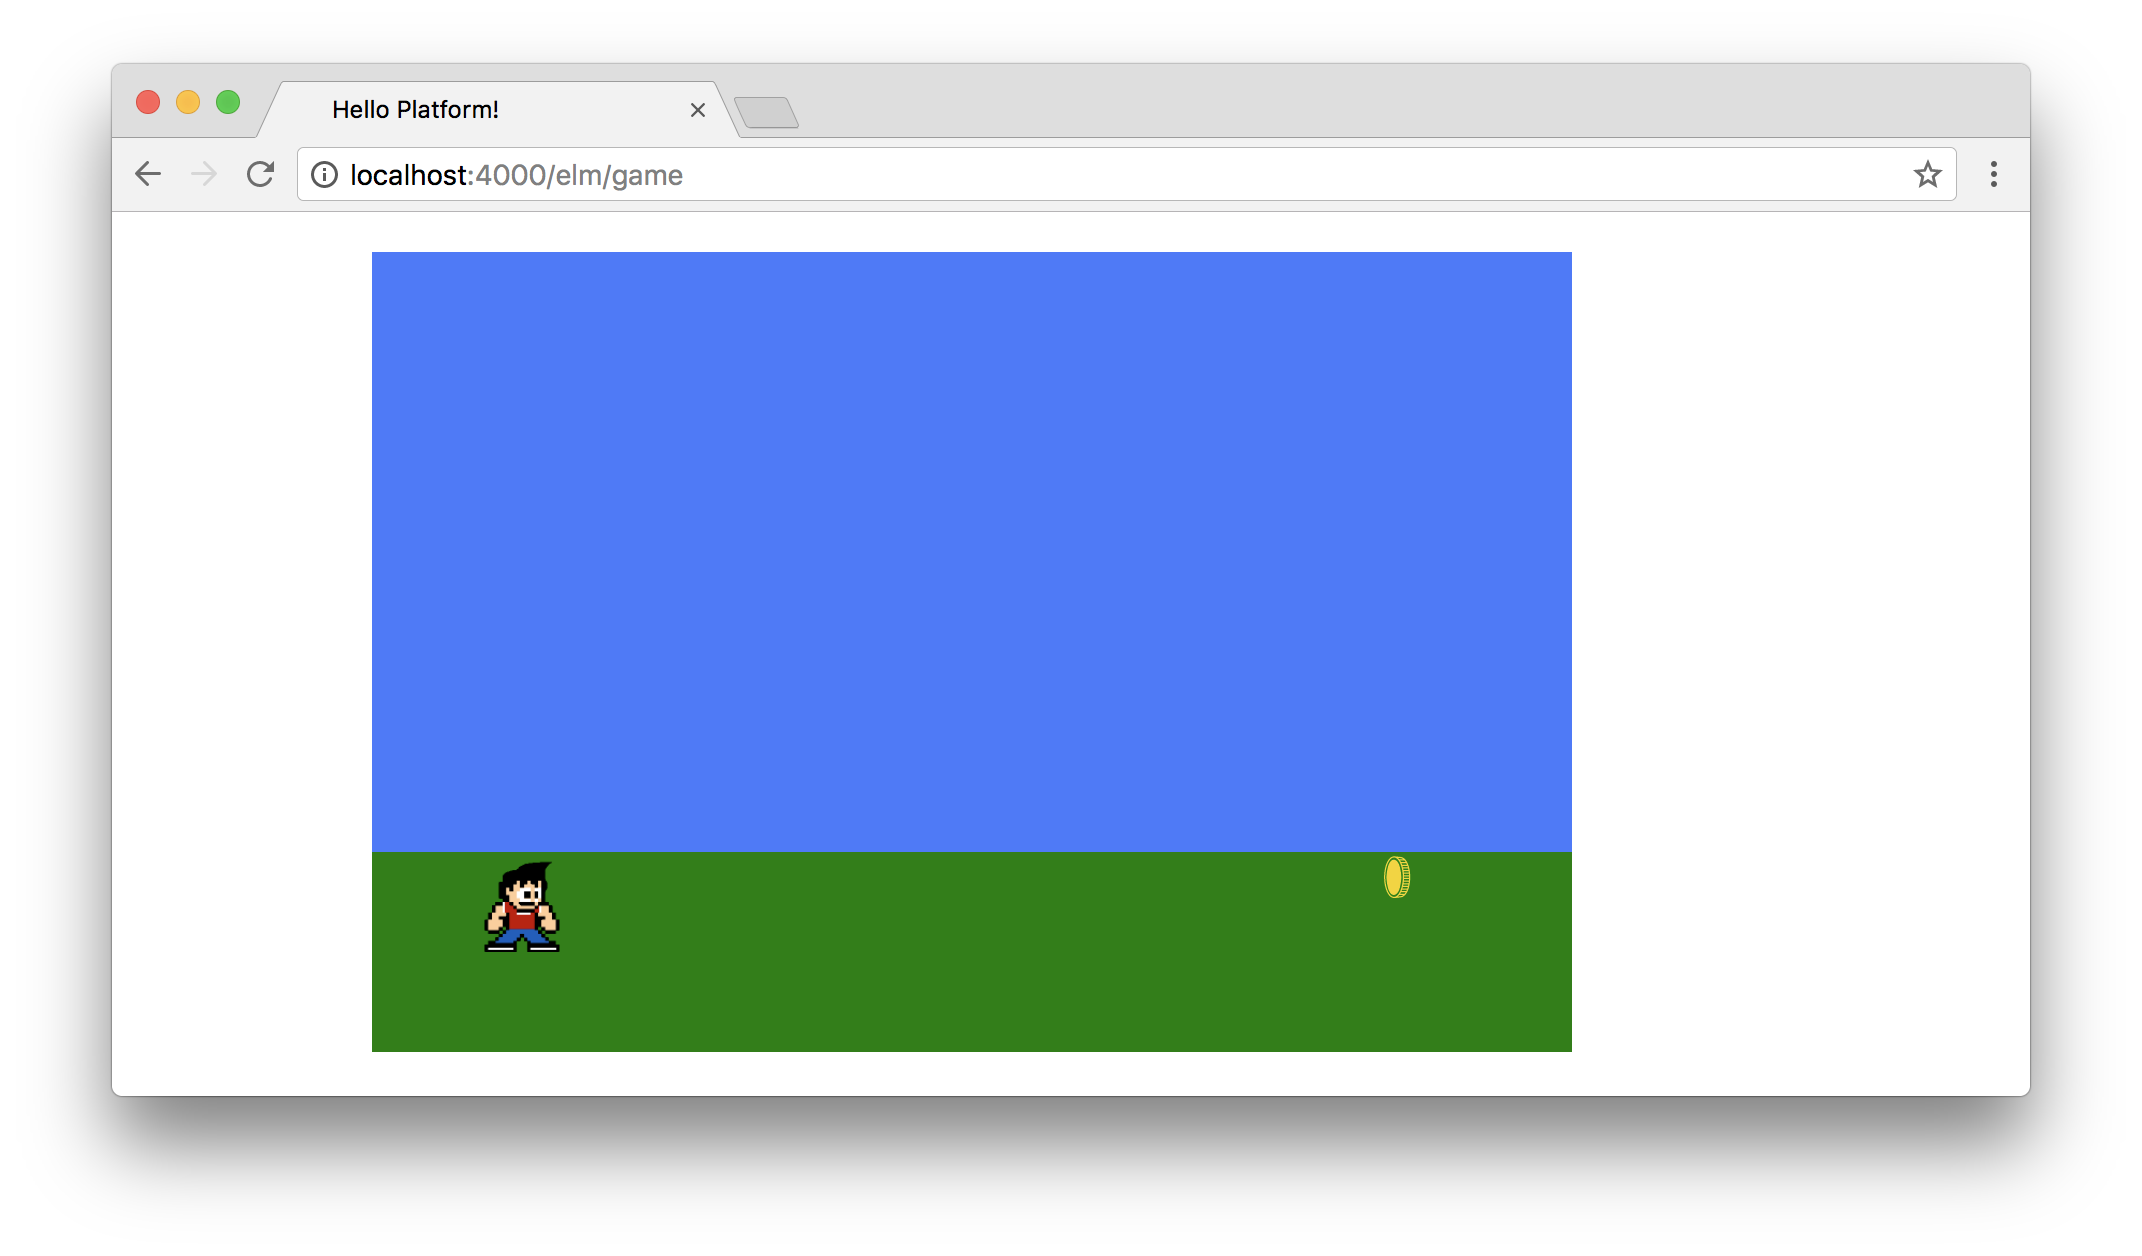
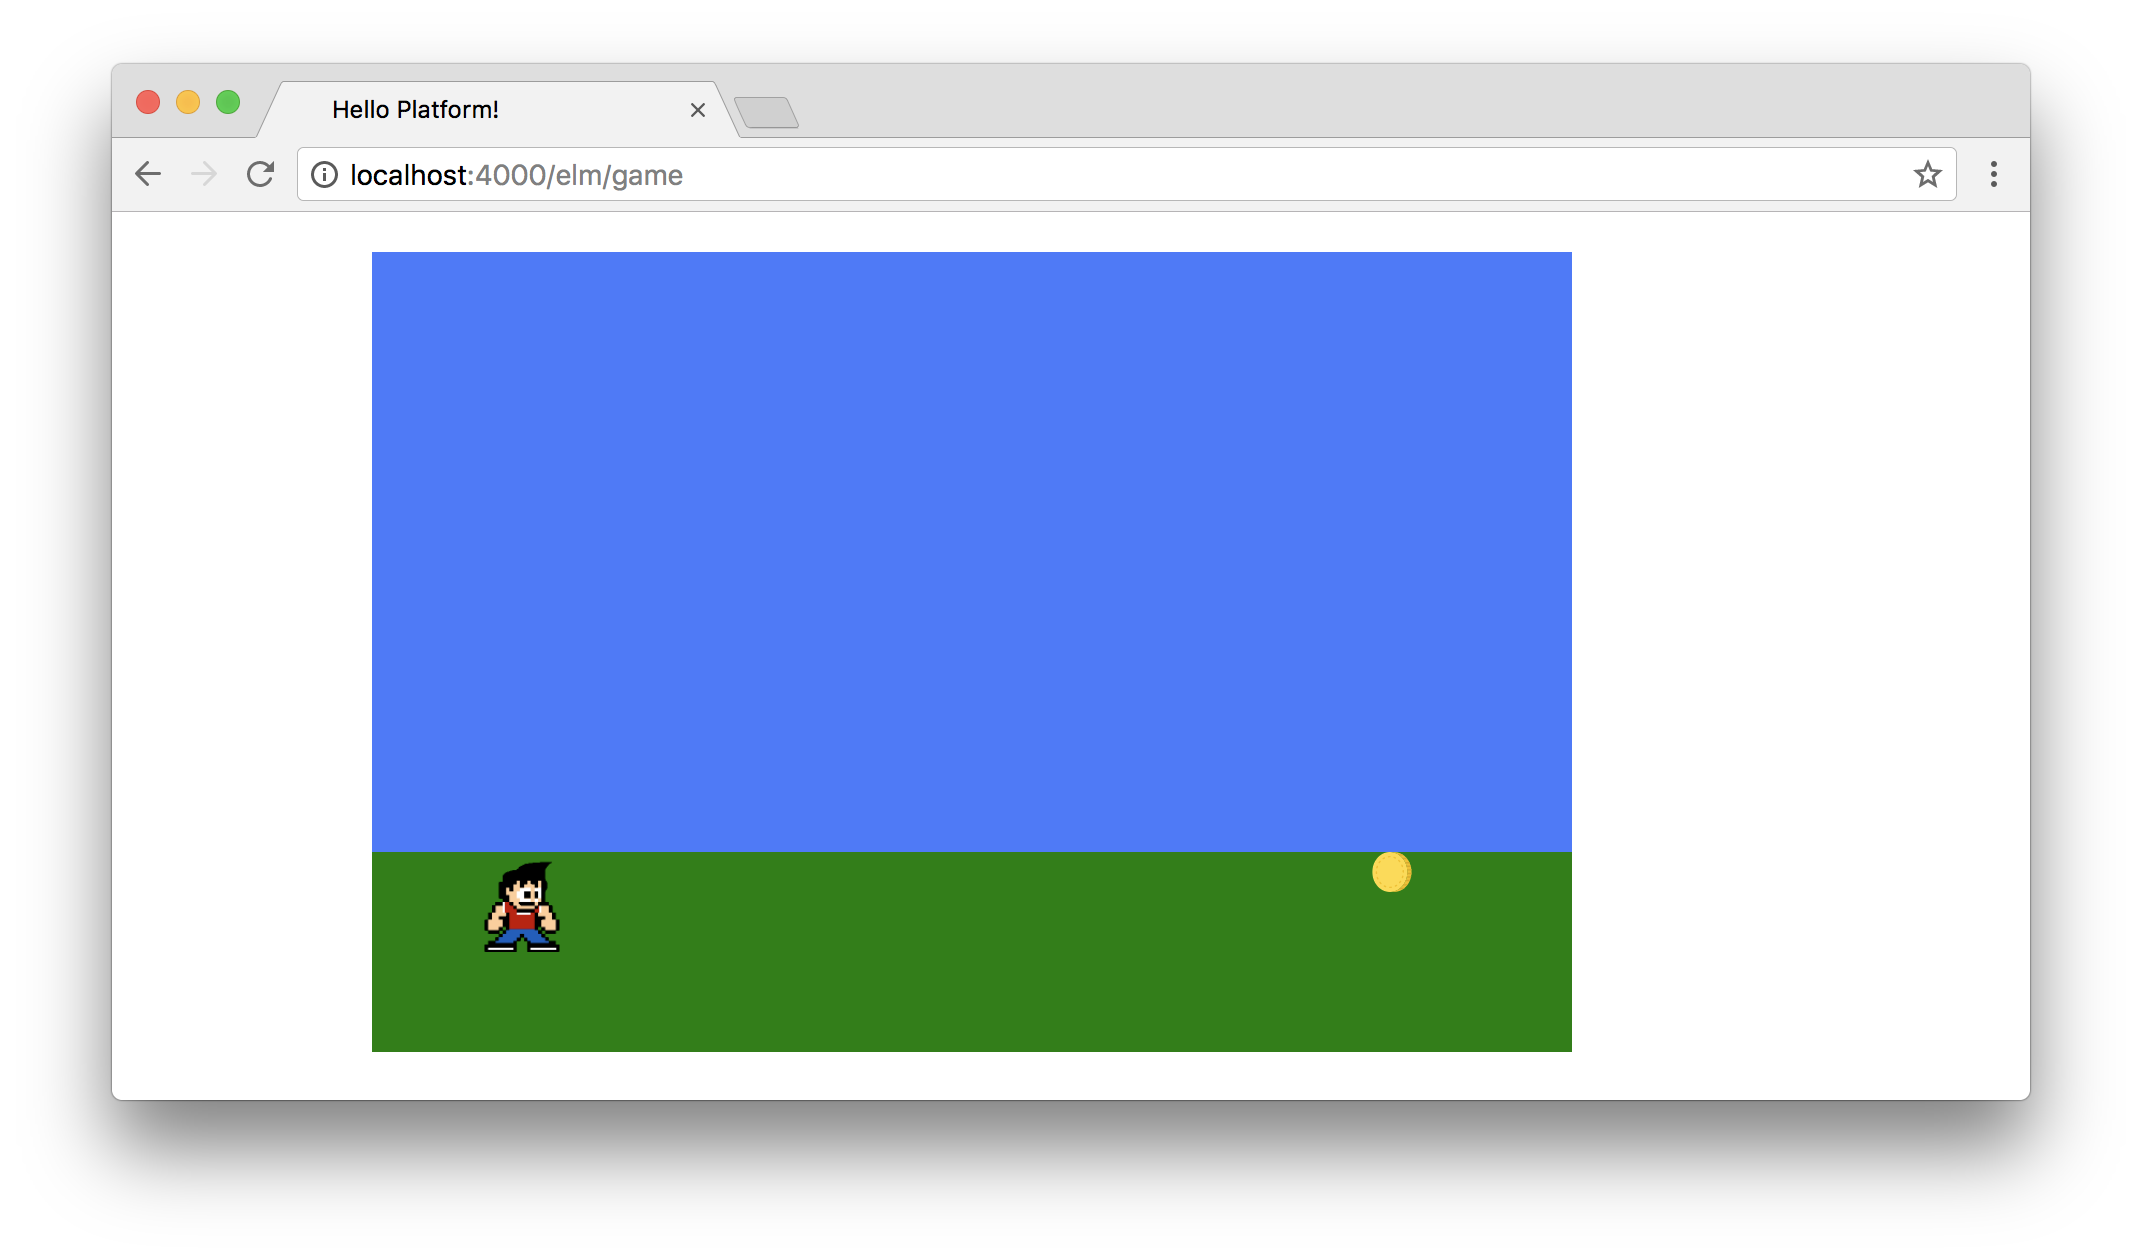
Rewriting for positioning section

diff --git a/manuscript/our_first_game.md b/manuscript/our_first_game.md
@@ -560,86 +560,88 @@ viewCharacter =
             []
 ```
 
-Our code is still working the same, we're just moving things around a little to
-make things easier to work with and reason about. I've found this to be a
-common refactoring pattern in Elm. We can start with a function that works,
-then refactor to a `let` expression, and then refactor to new functions and
-arguments, which is exactly what we'll do now.
+Our code is still working the same way, we're just moving things around to
+make things easier to work with and reason about.
 
-## Refactoring the Character Position
+## Updating the Model
 
-Let's take our refactoring one step further and move our character position
-into new functions with type annotations. We'll start with a
-`characterPosition` function where we can easily alter our character's position
-in a single location using a tuple:
+Since our character position is something that will change, let's move it to
+our model instead of hard-coding it in our view functions.
+
+Let's update the type alias for our `Model` as well as the values in the
+`initialModel`:
 
 ```elm
-characterPosition : ( Int, Int )
-characterPosition =
-    ( 1, 300 )
+type alias Model =
+    { characterPositionX : Int
+    , characterPositionY : Int
+    }
+
+
+initialModel : Model
+initialModel =
+    { characterPositionX = 1
+    , characterPositionY = 300
+    }
 ```
 
-Then we can add some helpful functions to access the `x` and `y` values with
-the following:
+Now we'll have to pass our model through the view functions so we can access
+those values in the right places. Our `view` function already takes `model`
+as an argument, so we can pass that along to the `viewGame` function like this:
 
 ```elm
-characterPositionX : Int
-characterPositionX =
-    Tuple.first characterPosition
-
-
-characterPositionY : Int
-characterPositionY =
-    Tuple.second characterPosition
+view : Model -> Html Msg
+view model =
+    div [] [ viewGame model ]
 ```
 
-This means we get the benefits of type safety while working with our character
-position, and we no longer need the `let` expression we created previously for
-our `viewCharacter` function:
+Then, we'll update both the type annotation and function declaration for
+`viewGame` so it takes `model` as an argument and passes it along to the
+`viewCharacter` function at the bottom.
 
 ```elm
-viewCharacter : Svg Msg
-viewCharacter =
+viewGame : Model -> Svg Msg
+viewGame model =
+    svg [ version "1.1", width "600", height "400" ]
+        [ viewGameWindow
+        , viewGameSky
+        , viewGameGround
+        , viewCharacter model
+        ]
+```
+
+This works well for our needs, because it means we can pass the model data as
+it changes to the `viewCharacter` function, which allows us to keep changing
+the character's position.
+
+Let's go ahead and update the `viewCharacter` function. We'll accept `model` as
+an argument, and that means we'll be able to access any value directly from our
+model. That also simplifies our code, because we won't need the `let`
+expression anymore. Update the `viewCharacter` function with the following:
+
+```elm
+viewCharacter : Model -> Svg Msg
+viewCharacter model =
     image
         [ xlinkHref "/images/character.gif"
-        , x (toString characterPositionX)
-        , y (toString characterPositionY)
+        , x (toString model.characterPositionX)
+        , y (toString model.characterPositionY)
         , width "50"
         , height "50"
         ]
         []
 ```
 
-Let's move our character to the right on the screen by increasing the `x`
-position to a value of `50`. This is what all the functions should look like
-working together:
+At this point, we have working data from the model that's being rendered to the
+view. Let's move our character to the right on the screen by increasing the
+`characterPositionX` value to `50` in the `initialModel`:
 
 ```elm
-characterPosition : ( Int, Int )
-characterPosition =
-    ( 50, 300 )
-
-
-characterPositionX : Int
-characterPositionX =
-    Tuple.first characterPosition
-
-
-characterPositionY : Int
-characterPositionY =
-    Tuple.second characterPosition
-
-
-viewCharacter : Svg Msg
-viewCharacter =
-    image
-        [ xlinkHref "/images/character.gif"
-        , x (toString characterPositionX)
-        , y (toString characterPositionY)
-        , width "50"
-        , height "50"
-        ]
-        []
+initialModel : Model
+initialModel =
+    { characterPositionX = 50
+    , characterPositionY = 300
+    }
 ```
 
 ![Altering Character Position](images/our_first_game/altering_character_position.png)
@@ -650,7 +652,7 @@ Our character is looking pretty lonely in our minigame world. Let's add an item
 to our world, and then we'll work towards having our character be able to pick
 up the item in the next chapter.
 
-We're going to follow much of the same steps we did for our character image, so
+We're going to follow many of the same steps we did for our character image, so
 we'll move quickly in this section. First, let's add a `coin.svg` image to our
 project to use as our item.
 
@@ -658,47 +660,62 @@ The `coin.svg` asset we'll be using here is
 [available in the GitHub repository](https://github.com/elixir-elm-tutorial/elixir-elm-tutorial-book/tree/master/manuscript/images/our_first_game/coin.svg)
 for this book.
 
-Let's move our `coin.svg` file inside the Phoenix `assets/static/images`
-folder just like we did for our character image, which will make it available
-at `/images/coin.svg`.
+Let's move our `coin.svg` file inside the `assets/static/images` folder just
+like we did for our character image, which will make it available at
+`/images/coin.svg`.
 
-Below the view and position functions we created for our character, we can do
-the same for our new coin item:
+Now we can update our model to set a position for the new item:
 
 ```elm
-itemPosition : ( Int, Int )
-itemPosition =
-    ( 500, 300 )
+type alias Model =
+    { characterPositionX : Int
+    , characterPositionY : Int
+    , itemPositionX : Int
+    , itemPositionY : Int
+    }
 
 
-itemPositionX : Int
-itemPositionX =
-    Tuple.first itemPosition
+initialModel : Model
+initialModel =
+    { characterPositionX = 50
+    , characterPositionY = 300
+    , itemPositionX = 500
+    , itemPositionY = 300
+    }
+```
 
+Then, we can update our `view` function and create a new `viewItem` function
+that takes in a `model` argument and returns some SVG code to render:
 
-itemPositionY : Int
-itemPositionY =
-    Tuple.second itemPosition
+```elm
+viewGame : Model -> Svg Msg
+viewGame model =
+    svg [ version "1.1", width "600", height "400" ]
+        [ viewGameWindow
+        , viewGameSky
+        , viewGameGround
+        , viewCharacter model
+        , viewItem model
+        ]
 
-
-viewItem : Svg Msg
-viewItem =
+viewItem : Model -> Svg Msg
+viewItem model =
     image
         [ xlinkHref "/images/coin.svg"
-        , x (toString itemPositionX)
-        , y (toString itemPositionY)
-        , width "25"
-        , height "25"
+        , x (toString model.itemPositionX)
+        , y (toString model.itemPositionY)
+        , width "20"
+        , height "20"
         ]
         []
 ```
 
 We essentially took the same approach for our character and our new coin item.
 The only difference is that we moved the coin item to the right of the screen
-with a position of `(500, 300)` and altered the `width` and `height` attributes
-so that the item is smaller than our character.
+and altered the `width` and `height` attributes so that the item is smaller
+than our character.
 
-This is what our results look like so far:
+This is what our results should look like so far:
 
 ![Character and Item Rendered](images/our_first_game/character_and_item.png)
 
@@ -708,5 +725,5 @@ We managed to accomplish _a lot_ in this chapter. We created a space for our
 first game, set up an initial SVG game world, added a character, and added an
 item. But keep in mind that we've been hard-coding a lot of values in our quest
 to get something up and running. In the next chapter, we'll be taking a look at
-Elm subscriptions as a way to handle keyboard input and add interaction to our
-game.
+Elm subscriptions as a way to handle keyboard input and adding interaction to
+our game.
